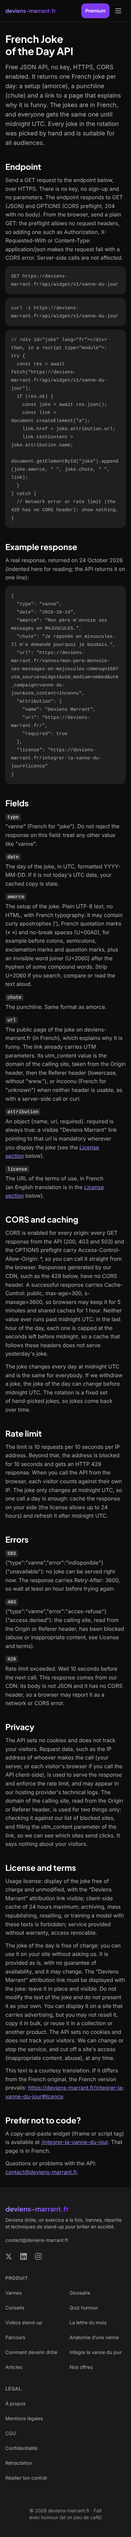
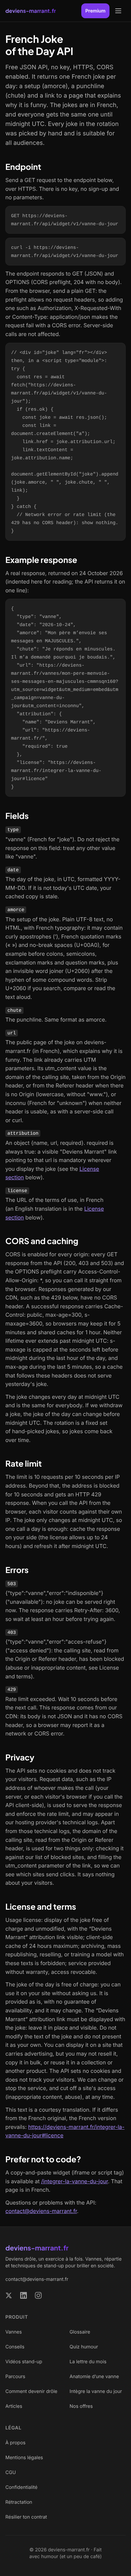
fix(widget-s22): /developers, 5e tour (URL avant les mises en garde, plafond max-age exact, journaux, JSON-LD sans propriété invalide)
Relecture v5 : GO 9,3/10 avant ces retouches.

Claude-Session: https://claude.ai/code/session_01YAxbXJAdESRnkaFF4w4w5d

Changed region(s): [[0.0308, 0.0, 0.9538, 0.9654], [0.5231, 0.9031, 0.8, 0.9343], [0.8, 0.1557, 0.8308, 0.1869]]

diff --git a/apps/web/src/config/textes/developers.ts b/apps/web/src/config/textes/developers.ts
@@ -29,7 +29,11 @@ export const TEXTE_INTRO =
 
 /** Phrase avant l'exemple d'appel (GET https://deviens-marrant.fr/api/widget/v1/vanne-du-jour). */
 export const TEXTE_ENDPOINT =
-  "Send a GET request to the endpoint below, over HTTPS. There is no key, no sign-up and no parameters. The endpoint responds to GET (JSON) and OPTIONS (CORS preflight, 204 with no body). From the browser, send a plain GET: the preflight allows no request headers, so adding one such as Authorization, X-Requested-With or Content-Type: application/json makes the request fail with a CORS error. Server-side calls are not affected.";
+  "Send a GET request to the endpoint below, over HTTPS. There is no key, no sign-up and no parameters.";
+
+/** Comportement navigateur, sous les exemples curl (revue v5 C2 : l'URL d'abord). */
+export const TEXTE_ENDPOINT_NAVIGATEUR =
+  "The endpoint responds to GET (JSON) and OPTIONS (CORS preflight, 204 with no body). From the browser, send a plain GET: the preflight allows no request headers, so adding one such as Authorization, X-Requested-With or Content-Type: application/json makes the request fail with a CORS error. Server-side calls are not affected.";
 
 /** Phrase avant l'exemple de réponse. */
 export const TEXTE_EXEMPLE = "A real response, returned on 24 October 2026 (indented here for reading; the API returns it on one line):";
@@ -65,7 +69,7 @@ export const CHAMPS: { nom: string; description: string }[] = [
   {
     nom: "url",
     description:
-      `The public page of the joke on deviens-marrant.fr (in French), which explains why it is funny. The link already carries UTM parameters. Its utm_content value is the domain of the calling site, taken from the Origin header, then the Referer header (lowercase, without "www."), or inconnu (French for "unknown") when neither header is usable, as with a server-side call or curl.`,
+      `The public page of the joke on deviens-marrant.fr (in French), which explains why it is funny. The link already carries UTM parameters. Its utm_content value is the domain of the calling site, taken from the Origin header, or from the Referer header when there is no Origin (lowercase, without "www."), or inconnu (French for "unknown") when neither header is usable, as with a server-side call or curl.`,
   },
   {
     nom: "attribution",
@@ -81,7 +85,7 @@ export const CHAMPS: { nom: string; description: string }[] = [
 
 /** CORS, cache, moment du changement de vanne. */
 export const TEXTE_CORS_CACHE =
-  "CORS is enabled for every origin: every GET response from the API (200, 403 and 503) and the OPTIONS preflight carry Access-Control-Allow-Origin: *, so you can call it straight from the browser. Responses generated by our CDN, such as the 429 below, have no CORS header. A successful response carries Cache-Control: public, max-age=300, s-maxage=3600, so browsers may keep it for 5 minutes and shared caches for 1 hour. Neither value ever runs past midnight UTC: in the last hour of the day, each one is capped at the seconds left before midnight, so a cache that follows these headers does not serve yesterday's joke.";
+  "CORS is enabled for every origin: every GET response from the API (200, 403 and 503) and the OPTIONS preflight carry Access-Control-Allow-Origin: *, so you can call it straight from the browser. Responses generated by our CDN, such as the 429 below, have no CORS header. A successful response carries Cache-Control: public, max-age=300, s-maxage=3600, so browsers may keep it for 5 minutes and shared caches for 1 hour. Neither lifetime ever extends past midnight UTC: s-maxage is capped at the seconds left before midnight during the last hour of the day, and max-age during the last 5 minutes, so a cache that follows these headers does not serve yesterday's joke.";
 
 /** Rotation : changement de vanne, retrait, retour des vannes (paragraphe à part, revue v3 C3). */
 export const TEXTE_ROTATION =
@@ -114,7 +118,7 @@ export const ERREURS: { code: string; description: string }[] = [
 
 /** Vie privée : usages du domaine appelant et des données de la requête. */
 export const TEXTE_VIE_PRIVEE =
-  "The API sets no cookies and does not track your visitors. Request data, such as the IP address of whoever makes the call (your server, or each visitor's browser if you call the API client-side), is used to serve the response and enforce the rate limit, and may appear in our hosting provider's technical logs. The domain of the calling site, read from the Origin or Referer header, is used for two things only: checking it against our list of blocked sites, and filling the utm_content parameter of the link, so we can see which sites send clicks. It says nothing about your visitors.";
+  "The API sets no cookies and does not track your visitors. Request data, such as the IP address of whoever makes the call (your server, or each visitor's browser if you call the API client-side), is used to serve the response and enforce the rate limit, and may appear in our hosting provider's technical logs. Apart from those technical logs, the domain of the calling site, read from the Origin or Referer header, is used for two things only: checking it against our list of blocked sites, and filling the utm_content parameter of the link, so we can see which sites send clicks. It says nothing about your visitors.";
 
 /**
  * Traduction de la ligne « Licence d'usage » et des « Conditions » (@legal), adaptée à l'API.

diff --git a/apps/web/src/__tests__/feature/developers-s22.test.tsx b/apps/web/src/__tests__/feature/developers-s22.test.tsx
@@ -34,6 +34,7 @@ import {
   TEXTE_CORS_CACHE,
   TEXTE_ROTATION,
   TEXTE_ENDPOINT,
+  TEXTE_ENDPOINT_NAVIGATEUR,
   TEXTE_INTRO,
   TEXTE_LICENCE_CONDITIONS,
   TEXTE_LICENCE_USAGE,
@@ -63,19 +64,20 @@ describe("page /developers", () => {
     const jsonLd = [...container.querySelectorAll('script[type="application/ld+json"]')].map((s) => JSON.parse(s.innerHTML));
     const api = jsonLd.find((d) => d["@type"] === "WebAPI");
     expect(api?.name).toBe(H1);
-    expect(api?.offers).toEqual({ "@type": "Offer", price: 0, priceCurrency: "EUR", isAccessibleForFree: true });
+    expect(api?.offers).toEqual({ "@type": "Offer", price: 0, priceCurrency: "EUR" });
   });
 
   it("intro, endpoint, CORS et cache, vie privée : textes s22 v2", () => {
     const { container } = render(<Page />);
     const textes = [...container.querySelectorAll("p")].map((p) => p.textContent);
     expect(TEXTE_INTRO).toMatch(/^Free JSON API, no key, HTTPS, CORS enabled\. /);
-    expect(TEXTE_ENDPOINT).toContain("no parameters. The endpoint responds to GET (JSON) and OPTIONS (CORS preflight, 204 with no body). From the browser, send a plain GET");
+    expect(TEXTE_ENDPOINT).toMatch(/no parameters\.$/);
+    expect(TEXTE_ENDPOINT_NAVIGATEUR).toContain("The endpoint responds to GET (JSON) and OPTIONS (CORS preflight, 204 with no body). From the browser, send a plain GET");
     expect(TEXTE_CORS_CACHE).toContain("Responses generated by our CDN, such as the 429 below, have no CORS header.");
     expect(TEXTE_ROTATION).toMatch(/so jokes come back over time\.$/);
     expect(TEXTE_VIE_PRIVEE).toContain("may appear in our hosting provider's technical logs.");
     expect(TEXTE_VIE_PRIVEE).not.toContain("used only to serve");
-    for (const t of [TEXTE_INTRO, TEXTE_ENDPOINT, TEXTE_CORS_CACHE, TEXTE_ROTATION, TEXTE_VIE_PRIVEE]) expect(textes).toContain(t);
+    for (const t of [TEXTE_INTRO, TEXTE_ENDPOINT, TEXTE_ENDPOINT_NAVIGATEUR, TEXTE_CORS_CACHE, TEXTE_ROTATION, TEXTE_VIE_PRIVEE]) expect(textes).toContain(t);
   });
 
   it("endpoint, curl -i, fetch en module avec contrôle de res.ok", () => {

diff --git a/apps/web/src/app/(dashboard)/developers/page.tsx b/apps/web/src/app/(dashboard)/developers/page.tsx
@@ -18,6 +18,7 @@ import {
   H2_WIDGET,
   TEXTE_INTRO,
   TEXTE_ENDPOINT,
+  TEXTE_ENDPOINT_NAVIGATEUR,
   TEXTE_EXEMPLE,
   EXEMPLE_REPONSE,
   CHAMPS,
@@ -79,7 +80,7 @@ const webApiJsonLd = {
   description: PAGE_DESCRIPTION,
   documentation: PAGE_URL,
   termsOfService: WIDGET_LICENCE_URL,
-  offers: { "@type": "Offer", price: 0, priceCurrency: "EUR", isAccessibleForFree: true },
+  offers: { "@type": "Offer", price: 0, priceCurrency: "EUR" },
   provider: PROVIDER,
 };
 
@@ -154,6 +155,7 @@ export default function DevelopersPage() {
         <p className={P}>{TEXTE_ENDPOINT}</p>
         <Bloc label="Endpoint" code={`GET ${API_URL}`} />
         <Bloc label="curl" code={EXEMPLE_CURL} />
+        <p className={P}>{TEXTE_ENDPOINT_NAVIGATEUR}</p>
         <Bloc label="JavaScript" code={EXEMPLE_FETCH} />
 
         <h2 className={H2}>{H2_EXEMPLE}</h2>

diff --git a/docs/reviews/review-developers-s22-v5.md b/docs/reviews/review-developers-s22-v5.md
@@ -1,0 +1,75 @@
+# Relecture à l'aveugle : /developers (s22, v5) : 24/10/2026
+
+Périmètre : `config/textes/developers.ts`, `app/(dashboard)/developers/page.tsx`, captures PC / mobile / mobile haut de page, confrontés à `route.ts`, `lib/widget/vanne-du-jour.ts`, `config/widget-vanne-du-jour.ts`, `lib/fr-typo.ts` et aux faits mesurés en production le 24/10/2026. Rapports antérieurs non lus. Décisions du fondateur (licence, pas de bouton Copy, U+2060, preflight, `lang="fr"` global, ordre des sections) non re-questionnées.
+
+## Verdict : GO (9,3/10, zéro bloquant)
+
+| # | Critère | Note | En bref |
+|---|---|---|---|
+| 1 | Exactitude technique | 9,5 | Aucune affirmation fausse. Une formulation imprécise sur le plafonnement de `max-age` (C1) |
+| 2 | Clarté pour un dev anglophone en 20 s, anglais naturel | 8,5 | Chapeau excellent. URL de l'endpoint après un paragraphe de 5 lignes (à la limite de la ligne de flottaison en mobile), anglais un peu raide par endroits |
+| 3 | Complétude pour l'annuaire | 9,5 | Gratuit, sans clé, HTTPS, CORS, limite de requêtes, exemple réel, erreurs, licence : tout y est dès le chapeau |
+| 4 | Exemples curl/fetch | 9,5 | Corrects, sûrs (nœuds texte, pas d'`innerHTML`), lien d'attribution conforme à la licence, 403/429/503 gérés |
+| 5 | Règles maison | 10 | Zéro « — » / « – » (Grep), aucun concurrent nommé (« our CDN », « our hosting provider »), rien d'inventé, aucune promesse de disponibilité ni de feuille de route |
+| 6 | SEO de base | 9 | Title 52 car., meta environ 141 car., H1, canonical, `og:locale en_US`, `lang="en"` sur le conteneur, JSON-LD WebPage + WebAPI. Une propriété schema.org hors domaine (O1) |
+
+## Points vérifiés (exacts)
+
+- GET + OPTIONS (204 sans corps), `Access-Control-Allow-Origin: *` sur 200, 403, 503 et sur le preflight (`route.ts:21-31`, `:70-72`). Le preflight n'a pas d'`Access-Control-Allow-Headers`, donc la mise en garde sur Authorization / X-Requested-With / `Content-Type: application/json` est juste.
+- `Cache-Control: public, max-age=min(300, s), s-maxage=min(3600, secondes avant minuit UTC)` (`route.ts:58-62`, `vanne-du-jour.ts:72-80`) : conforme, à la nuance C1 près.
+- 503 `{"type":"vanne","error":"indisponible"}` + `Retry-After: 3600` ; 403 `acces-refuse` sur Origin, puis Referer (`route.ts:33-51`).
+- 429 du CDN sans CORS et sans JSON, 10 req / 10 s, blocage 10 s : conforme aux mesures. « per IP address » est plus prudent que la règle réelle (IP + datacenter), donc pas trompeur.
+- `utm_content` : Origin, puis Referer, en minuscules et sans « www. », sinon `inconnu` (`vanne-du-jour.ts:184-221`).
+- Typographie : apostrophes courbes, « », U+00A0 avant `: ; ! ?` et autour des guillemets, U+2060 après le trait d'union des mots composés courts (`fr-typo.ts:13-14, 60-80`).
+- « explains why it is funny » : le pool impose `comedyTechnique: { not: null }` (`daily-joke-pool.ts:20`) et la fiche affiche « Pourquoi ça marche » en public : exact.
+- « picked by hand, suitable for all audiences » : 93 vannes gardées par deux relecteurs « tout public » (`widget-vanne-du-jour.ts:21-29`).
+- L'exemple de réponse respecte l'ordre et les 7 champs de `toWidgetApiPayload`. L'id du slug (`cmmnsqn160…`) est cohérent avec la liste blanche, et l'API renvoie bien le JSON sur une seule ligne.
+- Aucun cookie (mesure), journaux Workers couverts par « may appear in our hosting provider's technical logs ».
+
+## Corrections
+
+### Bloquant
+
+Aucun.
+
+### À corriger
+
+**C1. TEXTE_CORS_CACHE : plafonnement de max-age (exactitude).** `max-age` n'est réduit que pendant les 5 dernières minutes, pas « in the last hour ».
+- Actuel : « Neither value ever runs past midnight UTC: in the last hour of the day, each one is capped at the seconds left before midnight, so a cache that follows these headers does not serve yesterday's joke. »
+- Proposé : « Neither lifetime ever extends past midnight UTC: s-maxage is capped at the seconds left before midnight during the last hour of the day, and max-age during the last 5 minutes, so a cache that follows these headers does not serve yesterday's joke. »
+
+**C2. Endpoint : l'URL d'abord (clarté en 20 s).** Le dev pressé lit 5 lignes de mises en garde CORS avant de voir l'URL. Le découpage reste à l'intérieur de la section, donc l'ordre des sections ne change pas.
+- Actuel : TEXTE_ENDPOINT (un seul paragraphe), puis les blocs Endpoint, curl et JavaScript.
+- Proposé : `TEXTE_ENDPOINT` = « Send a GET request to the endpoint below, over HTTPS. There is no key, no sign-up and no parameters. » ; puis le bloc Endpoint ; puis le bloc curl ; puis un nouveau `TEXTE_ENDPOINT_NAVIGATEUR` = « The endpoint responds to GET (JSON) and OPTIONS (CORS preflight, 204 with no body). From the browser, send a plain GET: the preflight allows no request headers, so adding one such as Authorization, X-Requested-With or Content-Type: application/json makes the request fail with a CORS error. Server-side calls are not affected. » ; puis le bloc JavaScript (ajout d'un `<p>` dans `page.tsx`).
+
+**C3. TEXTE_VIE_PRIVEE : « two things only » à côté des journaux (précision vie privée).** L'Origin et le Referer (URL complète de la page hôte) font partie des données de requête que les journaux Workers peuvent contenir. Le « only » doit en tenir compte.
+- Actuel : « The domain of the calling site, read from the Origin or Referer header, is used for two things only: »
+- Proposé : « Apart from those technical logs, the domain of the calling site, read from the Origin or Referer header, is used for two things only: »
+
+### Optionnel
+
+**O1. JSON-LD WebAPI.** `isAccessibleForFree` n'est pas une propriété valide de `Offer` (son domaine est CreativeWork / Event / Place), ce qui donne un avertissement dans les validateurs. Actuel : `offers: { "@type": "Offer", price: 0, priceCurrency: "EUR", isAccessibleForFree: true }`. Proposé : `offers: { "@type": "Offer", price: 0, priceCurrency: "EUR" }`.
+
+**O2. Champ url : ordre Origin / Referer.** Actuel : « taken from the Origin header, then the Referer header (lowercase, without "www.") ». Proposé : « taken from the Origin header, or from the Referer header when there is no Origin (lowercase, without "www.") ».
+
+**O3. Coupure d'en-tête en mobile.** À 390 px, la prose coupe « X- / Requested-With » (capture `developers-mobile-endpoint.png`), alors que c'est un nom que le dev recopie. Proposé : dans `page.tsx`, rendre les jetons HTTP de la prose (`X-Requested-With`, `Access-Control-Allow-Origin: *`, `Cache-Control: …`, `Retry-After: 3600`, `utm_content`) en `<code className={`${CODE} whitespace-nowrap`}>`. Cela rend aussi la page plus facile à parcourir. Ne pas utiliser U+2011 ni U+2060 : ces caractères seraient copiés avec le texte.
+
+**O4. Blocs d'une ligne en mobile.** `GET https://deviens-` / `marrant.fr/…` se coupe au trait d'union du domaine. La copie reste correcte (retour à la ligne visuel), mais à la lecture on croit à deux lignes. Proposé : `whitespace-pre` + défilement horizontal pour les seuls blocs Endpoint et curl.
+
+**O5. Redondance « midnight UTC ».** Elle est répétée 5 fois (chapeau, CORS, rotation, limite, champ date). Actuel (TEXTE_ROTATION) : « The joke changes every day at midnight UTC and is the same for everybody. » Proposé : « The joke changes every day at midnight UTC. » (« the same for everybody » est déjà dans le chapeau.)
+
+**O6. À vérifier (hors fichiers lus) :** présence d'un lien interne vers `/developers` depuis `/integrer-la-vanne-du-jour` et dans le sitemap (`DEVELOPERS_LASTMOD` existe), pour que le robot de l'annuaire et Google la découvrent.
+
+## Captures
+
+- PC 1440 : hiérarchie nette, blocs de code lisibles, JSON indenté, liens d'ancrage visibles, aucun débordement.
+- Mobile haut de page : H1 et chapeau lisibles. Le bloc Endpoint arrive vers 810 px, donc à la limite du premier écran (C2). Voir aussi la coupure « X- » (O3).
+- Mobile pleine page : trop réduite pour juger le détail. Aucun débordement horizontal visible.
+
+---
+**Handoff → @orchestrator**
+- Fichier produit : `/home/user/Marrant/docs/reviews/review-developers-s22-v5.md`
+- Note : 9,3/10, GO, zéro bloquant
+- Top 3 : C1 (plafonnement de `max-age` : 5 dernières minutes, pas dernière heure), C2 (URL de l'endpoint avant les mises en garde CORS), C3 (« two things only » à concilier avec les journaux Workers)
+- Agent à relancer pour les corrections : @fullstack (textes + `page.tsx`)
+---
